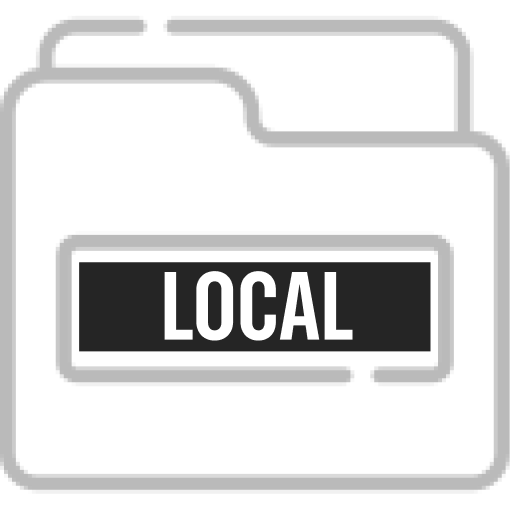
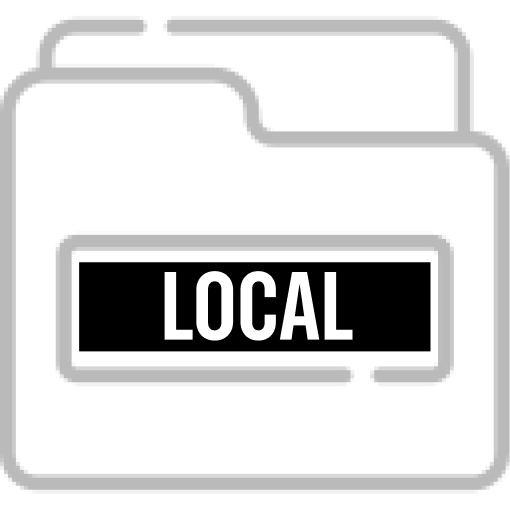
Fix somethings

Changed region(s): [[0.1471, 0.5, 0.8529, 0.7059]]

diff --git a/src/pages/Dashboard.tsx b/src/pages/Dashboard.tsx
@@ -14,9 +14,20 @@ import { auth } from '../services/firebase'
 import { uploadToCloudinary } from '../services/cloudinary'
 import { useTheme } from '../context/ThemeContext'
 
-function Dashboard() {
-    const { theme } = useTheme()
+const themeIcon = {
+  light: '/sideIcons/theme-light.png',
+  dark: '/sideIcons/theme-dark.png',
+  warm: '/sideIcons/theme-warm.png',
+}
+const themeOptions = [
+  { key: 'light', label: 'Light', img: '/sideIcons/themeLight.png' },
+  { key: 'dark', label: 'Dark', img: '/sideIcons/themeDark.png' },
+  { key: 'warm', label: 'Warm', img: '/sideIcons/themeWarm.png' },
+] as const
 
+function Dashboard() {
+const { theme, setTheme } = useTheme()
+const [showThemeModal, setShowThemeModal] = useState(false)
   const [showSidebar, setShowSidebar] = useState(false)
   const [authChecked, setAuthChecked] = useState(false)  
   
@@ -769,28 +780,88 @@ dark:text-white warm:text-[#623627]
   </div>
 </div>
 </div>
+
 <div className='flex  flex-row w-full mt-5 sm:mt-4 md:mt-4 lg:mt-1 lg:pr-3  2xl:mt-3 3xl:mt-4 max-w-[520px] sm:max-w-[600px] md:max-w-[680px] lg:max-w-[clamp(560px,58vw,680px)] xl:max-w-[780px] 2xl:max-w-[1050px] 3xl:max-w-[1400px] mx-auto justify-between'>
   <p className='font-inter  mt-5 2xl:mt-8 3xl:mt-9 font-semibold text-sm md:text-md 
   lg:text-[10px] xl:text-[11px] 2xl:text-[13px] 3xl:text-[15px] dark:text-white warm:text-[#623627] text-[#B3B3B3] uppercase'>Activities</p>
-  <button
-    id='tour-btn'
-    onClick={() => startTour()}
-    title='Take a Tour'
-    className='flex flex-col items-center justify-center'
+
+  <div className='flex flex-row items-start  gap-4'>
+    {/* THEME BUTTON — left of Need Help */}
+    <button
+      id='theme-btn'
+      type='button'
+      onClick={() => setShowThemeModal(true)}
+      title='Change theme'
+      className='flex flex-col items-center justify-center'
+    >
+      <div className='w-7 h-7   lg:w-7 lg:h-7 2xl:w-10 2xl:h-10 3xl:w-12 3xl:h-12 flex items-center justify-center text-2xl font-bold'>
+        <img
+          src={themeIcon[theme]}
+          alt='Theme'
+          className='w-12 lg:w-10 mb-2 block mx-auto mt-1 select-none rounded-md'
+          onContextMenu={(e) => e.preventDefault()}
+          draggable={false}
+        />
+      </div>
+      <p className='text-[8px] md:text-[8px] dark:text-white warm:text-[#623627] warm:font-bold text-primary-800 uppercase text-center lg:text-[8px] 2xl:text-[10px] 3xl:text-[11px] font-inter font-semibold'>Theme</p>
+    </button>
+{showThemeModal && (
+  <div
+    className='fixed inset-0 z-50 bg-black/50 flex items-center justify-center'
+    onClick={() => setShowThemeModal(false)}
   >
-    <div className='w-7 h-7 lg:w-7 lg:h-7 2xl:w-10 2xl:h-10 3xl:w-12 3xl:h-12  flex items-center justify-center text-2xl font-bold'>
-    <img
-      src={needHelpIcon[theme]}
-      alt="?"
-      className='w-10 mb-2 block mx-auto mt-1 select-none '
-      onContextMenu={(e) => e.preventDefault()}
-      draggable={false}
-    />    
+    <div
+      className='bg-white rounded-2xl border-2 border-black shadow-xl p-8 lg:py-4 lg:px-5 2xl:py-6 3xl:py-8 w-80 lg:w-64 xl:w-72 2xl:w-80 3xl:w-96 text-center'
+      onClick={(e) => e.stopPropagation()}
+    >
+      <h2 className='text-xl lg:text-sm xl:text-lg 2xl:text-xl 3xl:text-2xl font-bold text-primary-600 font-roboto mb-4'>
+        Select a theme
+      </h2>
+      <div className='flex justify-between gap-2'>
+        {themeOptions.map(({ key, label, img }) => (
+          <button
+            key={key}
+            onClick={() => { setTheme(key); setShowThemeModal(false) }}
+            aria-label={`${label} mode`}
+            className='flex flex-col items-center gap-1 flex-1'
+          >
+            <img
+              src={img}
+              alt=''
+              className={`w-16 h-16 lg:w-12 lg:h-12 xl:w-14 xl:h-14 2xl:w-16 2xl:h-16 3xl:w-20 3xl:h-20 rounded-md select-none object-contain transition-transform duration-200 hover:scale-105 ${theme === key ? 'ring-2 ring-[#FEE248]' : ''}`}
+              onContextMenu={(e) => e.preventDefault()}
+              draggable={false}
+            />
+            <span className='text-black font-roboto uppercase text-xs lg:text-[9px] xl:text-[10px] 2xl:text-xs 3xl:text-sm'>
+              {label}
+            </span>
+          </button>
+        ))}
+      </div>
     </div>
-    <p className='text-[8px] md:text-[8px] dark:text-white warm:text-[#623627] warm:font-bold text-primary-800  uppercase text-center lg:text-[8px] 2xl:text-[10px] 3xl:text-[11px]
-    font-inter font-semibold'>Need Help?</p>
-  </button>
   </div>
+)}
+    {/* NEED HELP BUTTON (unchanged) */}
+    <button
+      id='tour-btn'
+      onClick={() => startTour()}
+      title='Take a Tour'
+      className='flex flex-col items-center justify-center'
+    >
+      <div className='w-7 h-7 lg:w-7 lg:h-7 2xl:w-10 2xl:h-10 3xl:w-12 3xl:h-12  flex items-center justify-center text-2xl font-bold'>
+        <img
+          src={needHelpIcon[theme]}
+          alt="?"
+          className='w-10 mb-2 block mx-auto mt-1 select-none '
+          onContextMenu={(e) => e.preventDefault()}
+          draggable={false}
+        />
+      </div>
+      <p className='text-[8px] md:text-[8px] dark:text-white warm:text-[#623627] warm:font-bold text-primary-800  uppercase text-center lg:text-[8px] 2xl:text-[10px] 3xl:text-[11px]
+      font-inter font-semibold'>Need Help?</p>
+    </button>
+  </div>
+</div>
 {/* Activities Grid */}
 <div id='activitiesGrid' className='flex  justify-center pb-8 mt-3 sm:mt-3 md:mt-3 lg:mt-3 lg:pr-3 2xl:mt-2 3xl:mt-3 pr-1'>
   <div className='grid  grid-cols-2 md:grid-cols-3 lg:grid-cols-3 xl:grid-cols-3 2xl:px-2 2xl:grid-cols-3 3xl:grid-cols-3 gap-4 sm:gap-5 md:gap-6 lg:gap-x-10 lg:gap-y-4 xl:gap-x-11 xl:gap-y-5 2xl:gap-x-10 2xl:gap-y-8 3xl:gap-x-12 3xl:gap-y-9'>

diff --git a/src/components/Sidebar.tsx b/src/components/Sidebar.tsx
@@ -19,23 +19,17 @@ type ThemedIcon = {
 
 
 
-const themeOptions = [
-  { key: 'light', label: 'Light', img: '/sideIcons/themeLight.png' },
-  { key: 'dark', label: 'Dark', img: '/sideIcons/themeDark.png' },
-  { key: 'warm', label: 'Warm', img: '/sideIcons/themeWarm.png' },
-] as const
 
 function Sidebar({ uploading = false, quizActive = false, isOpenExternal = false, onExternalClose }: Props) {
   const isBlocked = uploading || quizActive
   const [isOpenInternal, setIsOpenInternal] = useState(false)
   const [showLogoutModal, setShowLogoutModal] = useState(false)
-  const [showThemeModal, setShowThemeModal] = useState(false)
   const navigate = useNavigate()
   const location = useLocation()
   const { openHelpModal } = useHelpBuddy()
-  const { theme, setTheme } = useTheme()
   const isOpen = isOpenInternal || isOpenExternal   // ← merged state
   const catGifs = ['/CatLove.gif', '/CatCry.gif', '/CatLaugh.gif']
+    const { theme } = useTheme()
 
   const [currentGif, setCurrentGif] = useState(catGifs[0])
   const getIconSrc = (icon: ThemedIcon, isActive: boolean) => {
@@ -303,22 +297,6 @@ const menuIcons = {
             </div>
           ))}
 
-          {/* THEME (opens popup) */}
-          <div className='px-5 lg:px-0 lg:pl-2 lg:pr-5 -mt-2 lg:mt-0 ml-2 xl:px-3'>
-            <button
-              onClick={() => !isBlocked && setShowThemeModal(true)}
-              className="
-                w-full text-left py-2 lg:py-0 pl-1 2xl:py-1 3xl:py-2  mb-1
-                font-medium text-lg lg:text-[10px] xl:text-[12px] 2xl:text-[14px] 3xl:text-[18px]
-                transition-colors duration-200  rounded-md
-                flex items-center gap-2 justs 
-                text-white hover:bg-[#4A4A49] dark:hover:bg-[#2F3542] warm:hover:bg-opacity-70
-              "
-            >
-              <img src="/sideIcons/theme.png" alt="" className="w-5  h-5 md:w-7 md:h-7 lg:w-5 lg:h-5 xl:w-6 xl:h-6 2xl:w-7 2xl:h-7 3xl:w-9 3xl:h-9 shrink-0 select-none"  onContextMenu={(e) => e.preventDefault()} draggable={false} />
-              Theme
-            </button>
-          </div>
 
           {/* LOGOUT */}
               <div className='px-5 lg:px-0 lg:pl-2 lg:pr-5 -mt-2 lg:mt-0  ml-2 xl:px-3'>
@@ -357,55 +335,6 @@ const menuIcons = {
         </nav>
       </aside>
 
-      {/* THEME MODAL */}
-      {showThemeModal && (
-        <>
-          <div className="fixed inset-0 bg-black  bg-opacity-50 z-50" />
-          <div
-            className="fixed inset-0 z-50 flex items-center justify-center"
-            onClick={() => setShowThemeModal(false)}
-          >
-            <div
-              className="bg-white rounded-2xl border-2 border-black 3xl:rounded-3xl shadow-xl p-8 lg:py-4 lg:px-5 2xl:py-6 3xl:py-8 w-80 lg:w-64 xl:w-72 2xl:w-80 3xl:w-96 text-center"
-              onClick={(e) => e.stopPropagation()}
-            >
-              <h2 className="text-xl lg:text-sm xl:text-lg 2xl:text-xl 3xl:text-2xl font-bold text-primary-600 font-roboto mb-4">
-                Select a theme
-              </h2>
-
-              <div className="flex justify-between gap-2 mb-6">
-                {themeOptions.map(({ key, label, img }) => (
-                  <button
-                    key={key}
-                    onClick={() => {
-                      setTheme(key)
-                      setShowThemeModal(false)
-                    }}
-                    aria-label={`${label} mode`}
-                    className="flex flex-col items-center gap-1 flex-1"
-                  >
-                    <img
-                      src={img}
-                      alt=""
-                      className={`w-16 h-16 lg:w-12 lg:h-12 xl:w-14 xl:h-14 2xl:w-16 2xl:h-16 3xl:w-20 3xl:h-20
-                        rounded-lg select-none object-contain
-                        transition-transform duration-200 hover:scale-105
-                        ${theme === key ? 'ring-2 ring-[#FEE248]' : ''}`}
-                      onContextMenu={(e) => e.preventDefault()}
-                      draggable={false}
-                    />
-                    <span className="text-black font-roboto uppercase text-xs lg:text-[9px] xl:text-[10px] 2xl:text-xs 3xl:text-sm">
-                      {label}
-                    </span>
-                  </button>
-                ))}
-              </div>
-
-
-            </div>
-          </div>
-        </>
-      )}
 
       {/* LOGOUT MODAL */}
       {showLogoutModal && (

diff --git a/src/pages/Notes.tsx b/src/pages/Notes.tsx
@@ -1022,7 +1022,7 @@ will be removed. Notes tagged with this category will be moved to <span classNam
                       <div className='flex gap-2 ml-auto'>
                         <button
                           onClick={closeNoteModal}
-                          className='border border-primary-600 text-primary-600 text-xs font-bold py-2 px-10 rounded-md hover:bg-primary-50'
+                          className='border border-primary-600 text-primary-600 dark:text-white dark:border-white text-xs font-bold py-2 px-10 rounded-md hover:bg-primary-50'
                         >
                           CLOSE
                         </button>
